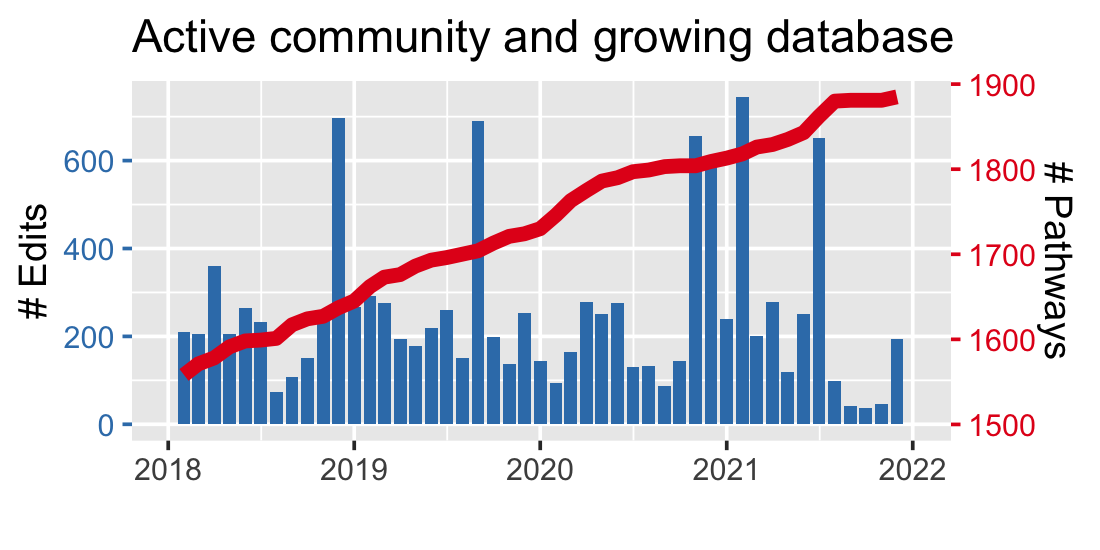
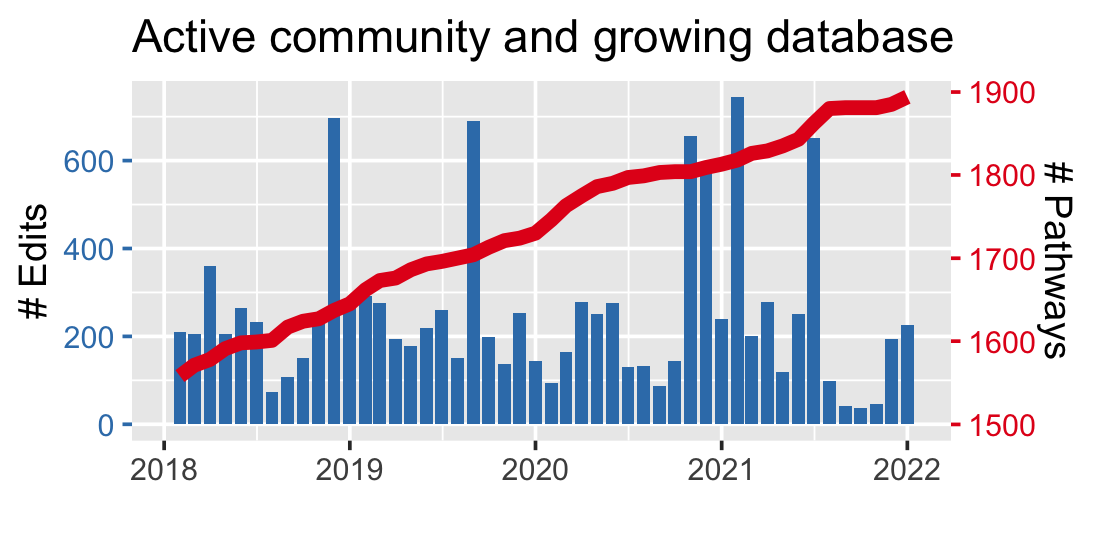
jan stats

diff --git a/_rmd/stats.md b/_rmd/stats.md
@@ -1,6 +1,7 @@
 ---
 title: stats
 ---
+
 # WikiPathways Stats
 
 This R notebooks prepares figures to summarize WikiPathways activity.
@@ -80,7 +81,7 @@ p <- ggplot(combo.df) +
             color = bcols[1], size = 2) +
   scale_x_date(date_breaks = "1 year", date_labels = "%Y",
                name = "",
-               limits = c(as.Date(strptime("2018","%Y")),as.Date(strptime("2022","%Y")))) +
+               limits = c(as.Date(strptime("2018","%Y")),as.Date(strptime("202201","%Y%m")))) +
   scale_y_continuous(name="# Edits", 
                      limits = ylim.prim,
                      sec.axis=sec_axis(~ (. - a)/b, 
